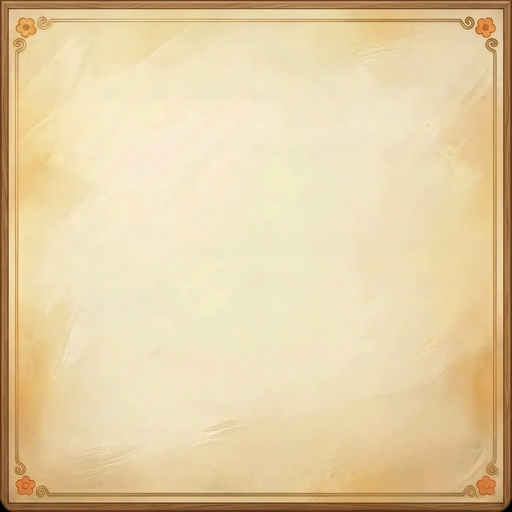
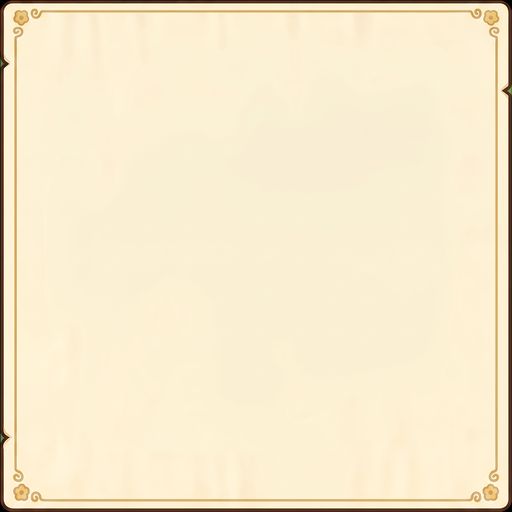
art: switch BOTTOM CARD back to cream/dashed-border panel
Reverts the wood-frame design to the original cream parchment + gold
dashed border with small floral corners — feedback was that the lighter
art reads better against the green arena backdrop and gives more breathing
room around the items strip.

Source PNG flood-filled more aggressively to clear the residual green-bg
pixels that were leaking into the corners on the first pass. Trimmed +
downscaled 2048->512 Lanczos, 1px alpha feather for clean anti-aliased
edges.

9-slice insets restored to 80px (the corner art on this panel is more
compact than the wood-frame; 110px insets would have pulled the gold
swirls into the stretch region).

diff --git a/index.html b/index.html
@@ -6376,9 +6376,9 @@ function drawArenaHUD(){
   const bottomCapY = ARENA.BOT_Y + bottomTopOffset;
   const bottomCapH = H - bottomCapY - bottomBottomGap;
   const bottomRadius = LAYOUT.bottomCapRadius;
-  // 9-slice: moldura de madeira + flor coral nos 4 cantos preservada; arestas/centro escalam.
-  // Insets calculados sobre o source 512x512 → ~110px por borda cobre wood frame + flor.
-  if(!draw9Slice(UI_PANEL_CARD, bottomCapX, bottomCapY, bottomCapW, bottomCapH, { left:110, right:110, top:110, bottom:110 })){
+  // 9-slice: cream parchment + dashed gold border + floral corners preservados.
+  // Insets calculados sobre o source 512x512 → ~80px por borda cobre dark frame + corner.
+  if(!draw9Slice(UI_PANEL_CARD, bottomCapX, bottomCapY, bottomCapW, bottomCapH, { left:80, right:80, top:80, bottom:80 })){
     // Fallback enquanto a imagem carrega: card cream solido + borda manual
     ctx.save();
     if(ctx.roundRect){
